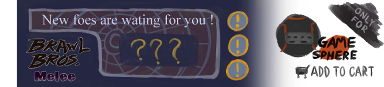
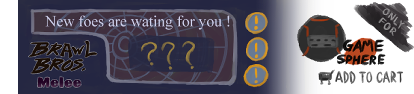
resizing

diff --git a/home.html b/home.html
@@ -43,7 +43,7 @@
 			</script>
 		</div>
 			
-			<div class="item3"> <img src="homepage/acid.gif" width="auto" height="87" style= "margin-top: 15px" /> </div>
+			<div class="item3"> <img src="homepage/acid.gif" width="auto" height="94" style= "margin-top: 15px" /> </div>
 			
 			<div class="item4"> <div class="scroll-left"> <p>
 			

diff --git a/homepage/homestyle.css b/homepage/homestyle.css
@@ -14,7 +14,7 @@ body{
 	.grid-container-top {
 		display: grid;
 		gap: 10px;
-		grid-template-columns: 260px 400px 200px;
+		grid-template-columns: 300px 420px 200px;
 		justify-content: center;
 		}
 	
